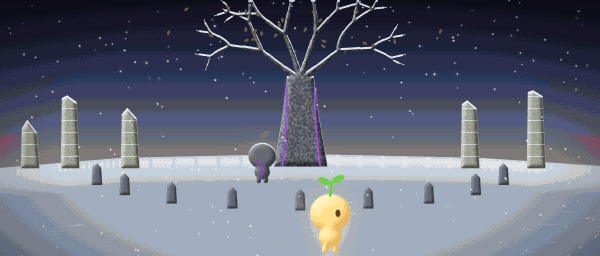
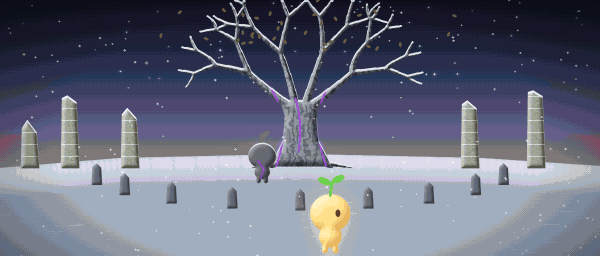
Pulir ilustraciones 2_familia_shamba, 3_leyenda, 17_kimya_lago y 22_ruinas_mauti y optimizar pintor

diff --git a/herramientas/cinematicas.py b/herramientas/cinematicas.py
@@ -32,13 +32,13 @@ def linea_horizonte(lz, base, amplitud, escala, semilla, octavas=4):
     """Una silueta de montañas o colinas: devuelve la altura (y) para cada x."""
     rng = np.random.default_rng(semilla)
     x = np.arange(lz.W) / lz.s
-    y = np.zeros_like(x)
-    amp, suma = 1.0, 0.0
+    y = 0.45 * np.sin(x * (0.37 / escala) * 2 * np.pi + rng.random() * 6.28)
+    amp, suma = 1.0, 0.45
     for o in range(octavas):
-        f = (2 ** o) / escala
+        f = (2.17 ** o) / escala * (0.92 + 0.16 * rng.random())
         y += amp * np.sin(x * f * 2 * np.pi + rng.random() * 6.28) * (0.6 + 0.4 * rng.random())
         suma += amp
-        amp *= 0.5
+        amp *= 0.52
     return base - amplitud * y / suma
 
 
@@ -491,19 +491,27 @@ def piedras(lz, region, tam=9.0, semilla=2, rampa_p=PIEDRA, luz=(-0.5, -0.7, 0.5
         return
     x0, x1, y0, y1 = xs.min() / lz.s, xs.max() / lz.s, ys.min() / lz.s, ys.max() / lz.s
     lz.pintar(region, mortero)
+    tex_p = lz.ruido(1.5, 2, semilla=semilla + 11)
+    grupos = [np.zeros((lz.H, lz.W)) for _ in range(4)]
     fila = 0
     y = y0
     while y < y1 + tam:
         x = x0 - (tam * 0.5 if fila % 2 else 0)
+        col = 0
         while x < x1 + tam:
             w_ = tam * (0.8 + rng.random() * 0.6)
             h_ = tam * (0.6 + rng.random() * 0.25)
             p = lz.elipse(x + w_ / 2, y + h_ / 2, w_ / 2 - 0.6, h_ / 2 - 0.6, (rng.random() - 0.5) * 20) * region
             if p.max() > 0.3:
-                lz.sombrear(p, rampa_p, min(w_, h_) * 0.35, luz, textura=lz.ruido(1.5, 2), fuerza_tex=0.3)
+                g_idx = (fila % 2) * 2 + (col % 2)
+                grupos[g_idx] = np.maximum(grupos[g_idx], p)
             x += w_
+            col += 1
         y += tam * 0.72
         fila += 1
+    for g in grupos:
+        if g.max() > 0.3:
+            lz.sombrear(g, rampa_p, tam * 0.25, luz, textura=tex_p, fuerza_tex=0.3)
 
 
 def lengua(lz, x, base, ancho, alto, curva, fase=0.0):
@@ -679,10 +687,11 @@ def leyenda():
     # la abuela con su chal y sus gafas, con el cetro en alto
     castor(lz, 266, 214, 2.05, 1, chal=True, gafas=True, brazo_alto=True, sem=11,
            luz=(-0.9, -0.3, 0.45), recorte=("#535a80", 0.6), recorte_dir=(1, -0.2))
-    # el balancín de la mecedora delante
+    # el balancín y el brazo de la mecedora delante
     balancin = lz.trazo(lz.curva((206, 212), (262, 226), (318, 210), n=30), 3.4)
     lz.sombrear(balancin, MADERA, 1.7, (-0.8, -0.5, 0.5))
-    brazo_m = lz.trazo([(222, 176), (300, 178)], 3.4)
+    brazo_m = lz.trazo([(222, 176), (294, 178)], 3.2)
+    lz.sombrear(brazo_m, MADERA, 1.6, (-0.8, -0.4, 0.5))
     cetro(lz, 300, 222, 116, e=1.7, luz=(-0.9, -0.3, 0.45))
     # la mano que agarra el cetro (delante del palo)
     mano = lz.elipse(299, 149, 4.4, 4.6)
@@ -706,13 +715,18 @@ def leyenda():
     borde_b = np.clip(1 - np.abs(d_b - 0.95 + (humo_dorado - 0.5) * 0.25) * 9, 0, 1)
     dentro_b = np.clip((1 - d_b) * 4 + (humo_dorado - 0.5) * 0.6, 0, 1)
     lz.pintar(dentro_b, rampa(["#3a2238", "#6a3446", "#9c4b4a", "#c96d4f"], np.clip(1 - d_b + humo_dorado * 0.3, 0, 1)), 0.75)
-    # dentro: el mundo gris, con el árbol, y la luz que llega
+    # dentro: el mundo gris, con el árbol viejo que empieza a reverdecer donde llega la luz
     for (hx_, hy_, hr_, col_) in [(cx_v - 20, cy_v + 40, 40, "#525458"), (cx_v + 26, cy_v + 44, 36, "#3d3f43")]:
         lz.pintar(lz.circulo(hx_, hy_, hr_) * dentro_b, col_, 0.9)
-    arb = lz.trazo([(cx_v - 26, cy_v + 8), (cx_v - 27, cy_v - 8)], 2)
-    arb = np.maximum(arb, lz.trazo([(cx_v - 27, cy_v - 4), (cx_v - 33, cy_v - 12)], 1.2))
-    arb = np.maximum(arb, lz.trazo([(cx_v - 27, cy_v - 6), (cx_v - 21, cy_v - 14)], 1.2))
-    lz.pintar(arb * dentro_b, "#2b2c30")
+    ax, ay = cx_v - 25, cy_v + 12
+    arb = lz.trazo(lz.curva((ax, ay), (ax - 1.5, ay - 9), (ax - 1, ay - 18), n=16), 2.8, 1.4)
+    for (p1, p2, g_) in [((ax - 4, ay + 1), (ax - 9, ay + 3), 1.4), ((ax + 3, ay + 1), (ax + 8, ay + 2), 1.4),
+                         ((ax - 1, ay - 13), (ax - 10, ay - 22), 1.4), ((ax - 1, ay - 15), (ax + 8, ay - 23), 1.3),
+                         ((ax - 4, ay - 17), (ax - 3, ay - 26), 1.1)]:
+        arb = np.maximum(arb, lz.trazo(lz.curva((ax - 1, p1[1]), p1, p2, n=12), g_, g_ * 0.45))
+    lz.sombrear(arb * dentro_b, ["#1b1c1f", "#2b2c30", "#525458", "#85878a"], 1.5, (0.8, -0.4, 0.5))
+    brotes_v = (lz.elipse(ax + 6, ay - 22, 4.5, 3.0) + lz.elipse(ax - 2, ay - 25, 4.0, 2.6)) * dentro_b
+    lz.sombrear( np.clip(brotes_v, 0, 1), ["#24401f", "#3e9a35", "#6fcf4f", "#b8ef8e"], 2.0, (0.7, -0.5, 0.5))
     lz.sumar_luz(borde_b, "#f9b947", 0.8)
     lz.sumar_luz(lz.desenfocar(borde_b, 3), "#ef8a26", 0.6)
     rayos_l = lz.rayos(lz.circulo(cx_v, cy_v - 4, 9), (cx_v, cy_v - 4), largo=0.965, pasos=34)
@@ -1056,9 +1070,13 @@ def casa_troncos(lz, x, y, ancho, alto, luz=(-0.7, -0.6, 0.5), ventanas_luz=0.0,
         lz.pintar(lz.poligono([(vx_ - 8, y - 9), (vx_ + 8, y - 9), (vx_ + 7, y - 6), (vx_ - 7, y - 6)]), "#6d4534")
         flores(lz, 6, (vx_ - 7, y - 9, vx_ + 7, y - 8.5), [["#8f2532", "#d5525e", "#e98378"], ["#b2721a", "#df9022", "#f1c27a"]], semilla=int(vx_), tam=0.7)
     if rueda:
-        # la rueda del molino, a un lado, con su acequia
+        # la rueda del molino, a un lado, con su acequia de piedra y agua con espuma
         rx_, ry_ = x0 - 10, y - 12
         r_ = alto * 0.3
+        acequia = lz.trazo(lz.curva((rx_ - 42, y + 6), (rx_ - 6, y + 3), (rx_ + 22, y + 1), n=28), 7.5, 5.0)
+        borde_a = np.clip(lz.desenfocar(acequia, 1.6) - acequia, 0, 1)
+        lz.sombrear(borde_a, PIEDRA[:5], 1.5, luz)
+        lz.pintar(acequia, rampa(["#1d3a44", "#335777", "#6b9eab", "#c4ddd0"], np.clip(0.35 + lz.ruido(2, 2, semilla=semilla + 9) * 0.55, 0, 1)))
         aro = np.clip(lz.circulo(rx_, ry_, r_) - lz.circulo(rx_, ry_, r_ - 2.5), 0, 1)
         for k in range(10):
             a_ = k * np.pi / 5
@@ -1066,6 +1084,8 @@ def casa_troncos(lz, x, y, ancho, alto, luz=(-0.7, -0.6, 0.5), ventanas_luz=0.0,
             aro = np.maximum(aro, lz.trazo([(rx_ + np.cos(a_) * (r_ - 1), ry_ + np.sin(a_) * (r_ - 1)), (rx_ + np.cos(a_) * (r_ + 3), ry_ + np.sin(a_) * (r_ + 3))], 2.4))
         lz.sombrear(aro, MADERA, 1.2, luz)
         lz.sombrear(lz.circulo(rx_, ry_, 3), MADERA, 2, luz)
+        espuma = lz.elipse(rx_, y + 2, 12, 2.6) * (lz.ruido(1.2, 2, semilla=semilla + 11) > 0.38)
+        lz.pintar(lz.desenfocar(espuma, 0.6), "#e8f0dc", 0.85)
     return pared
 
 
@@ -1073,29 +1093,31 @@ def zanahorias(lz, x0, x1, y, e=1.0, semilla=0, n=None):
     """Una fila de zanahorias: la cabeza naranja asomando y un penacho de hojas."""
     rng = np.random.default_rng(semilla)
     n = n or int((x1 - x0) / (7 * e))
+    cabs_m = np.zeros((lz.H, lz.W))
     hojas_m = np.zeros((lz.H, lz.W))
     for k in range(n):
         x = x0 + (x1 - x0) * (k + 0.5) / n + (rng.random() - 0.5) * 2 * e
-        cab = lz.elipse(x, y - 0.5 * e, 2.4 * e, 1.6 * e)
-        lz.sombrear(cab, ["#6e200c", "#a8380f", "#d45a17", "#ef8a26", "#f9b947"], 1.4 * e, (-0.6, -0.7, 0.5))
+        cabs_m = np.maximum(cabs_m, lz.elipse(x, y - 0.5 * e, 2.4 * e, 1.6 * e))
         for j in range(5):
             a_ = np.radians(-90 + (j - 2) * 22 + (rng.random() - 0.5) * 10)
             l_ = (6 + rng.random() * 4) * e
             pts = lz.curva((x, y - 1 * e), (x + np.cos(a_) * l_ * 0.5, y - 1 * e + np.sin(a_) * l_ * 0.6), (x + np.cos(a_) * l_, y - 1 * e + np.sin(a_) * l_ * 0.9 + 1 * e), n=10)
             hojas_m = np.maximum(hojas_m, lz.trazo(pts, 1.6 * e, 0.6 * e))
+    lz.sombrear(cabs_m, ["#6e200c", "#a8380f", "#d45a17", "#ef8a26", "#f9b947"], 1.4 * e, (-0.6, -0.7, 0.5))
     lz.sombrear(hojas_m, HIERBA[2:], 0.9 * e, (-0.6, -0.7, 0.5), textura=lz.ruido(0.7, 2), fuerza_tex=0.4)
 
 
 def coles(lz, x0, x1, y, e=1.0, semilla=0):
     rng = np.random.default_rng(semilla)
     n = int((x1 - x0) / (12 * e))
+    hojas_ = []
     for k in range(n):
         x = x0 + (x1 - x0) * (k + 0.5) / n
-        hojas_ = []
         for j in range(9):
             a_ = j / 9 * 2 * np.pi
             hojas_.append((x + np.cos(a_) * 3.5 * e, y - 3 * e + np.sin(a_) * 2 * e, 3.4 * e))
         hojas_.append((x, y - 3.6 * e, 3.2 * e))
+    if hojas_:
         bolas(lz, hojas_, ["#24401f", "#355029", "#5d793e", "#8aa152", "#b4c070", "#dcd994"], luz=(-0.6, -0.7, 0.5),
               ruido_borde=0.2, fuerza_tex=0.2, plano=1.3)
 

diff --git a/herramientas/cinematicas_sendero.py b/herramientas/cinematicas_sendero.py
@@ -843,6 +843,8 @@ def kimya_lago():
     origen = np.clip(2 * eje - 1 - np.arange(filas), 0, filas - 1)
     reflejo = lz.img[origen]
     lz.pintar(agua, reflejo * 0.82)
+    # más abajo de 2 * HZ se agota el cielo reflejado: fundir a azul noche hondo para no repetir la fila 0 con sus estrellas
+    lz.pintar(agua * np.clip((lz.y - (2 * HZ - 20)) / 24, 0, 1), "#0b1122")
     lz.pintar(agua * np.clip((lz.y - HZ) / 160, 0, 1), "#0a1424", 0.25)
     vetas = (estirar_h(lz, lz.ruido(1.5, 2, semilla=204), 40) > 0.72) * agua
     lz.pintar(vetas, "#c8e0e8", 0.12)
@@ -1335,29 +1337,37 @@ def _corro(lz, encendidas):
 
 
 def _arbol_gris(lz, x, y, alto, rng):
-    tronco = lz.poligono([(x - 26, y), (x - 17, y - alto * 0.35), (x - 13, y - alto * 0.6), (x + 13, y - alto * 0.6), (x + 18, y - alto * 0.35), (x + 27, y)])
+    e = alto / 150.0
+    tronco = lz.poligono([(x - 30 * e, y), (x - 17 * e, y - 26 * e), (x - 15 * e, y - 50 * e), (x - 20 * e, y - 66 * e),
+                          (x + 20 * e, y - 66 * e), (x + 16 * e, y - 50 * e), (x + 18 * e, y - 26 * e), (x + 32 * e, y)])
+    for (dx, lx, g) in ((-1, 50, 7), (1, 54, 7), (-1, 30, 4.5), (1, 32, 4.5)):
+        tronco = np.maximum(tronco, lz.trazo(lz.curva((x + dx * 12 * e, y - 6 * e), (x + dx * lx * 0.5 * e, y - 3 * e), (x + dx * lx * e, y + 1), n=24), g * e, 1.2 * e))
     ramas = np.zeros((lz.H, lz.W))
     def rama(a, ang, largo, g, n):
         nonlocal ramas
         b = (a[0] + np.cos(ang) * largo, a[1] + np.sin(ang) * largo)
         m = (a[0] + np.cos(ang) * largo * 0.5 + rng.normal(0, 3), a[1] + np.sin(ang) * largo * 0.5)
-        ramas = np.maximum(ramas, lz.trazo(lz.curva(a, m, b, n=20), g, g * 0.6))
+        ramas = np.maximum(ramas, lz.trazo(lz.curva(a, m, b, n=20), g, g * 0.58))
         if n < 3:
-            for d in (-0.5, 0.45):
-                rama(b, ang + d + rng.normal(0, 0.15), largo * 0.68, g * 0.6, n + 1)
-    for ang in (-2.5, -1.9, -1.25, -0.65):
-        rama((x, y - alto * 0.58), ang, alto * 0.32, 5.0, 0)
+            for d in (-0.48, 0.44):
+                rama(b, ang + d + rng.normal(0, 0.12), largo * 0.68, g * 0.62, n + 1)
+    for (ox_r, ang, l0, g0) in ((x - 13 * e, -2.45, 50 * e, 7.5 * e), (x - 5 * e, -1.85, 54 * e, 7.0 * e),
+                                (x + 5 * e, -1.25, 54 * e, 7.0 * e), (x + 13 * e, -0.68, 50 * e, 7.5 * e)):
+        rama((ox_r, y - 62 * e), ang, l0, g0, 0)
     madera = np.clip(tronco + ramas, 0, 1)
-    lz.sombrear(madera, ["#1e1e22", "#36363c", "#55555c", "#77777e", "#9a9aa0"], 7, (-0.6, -0.7, 0.5),
-                textura=lz.ruido(1.5, 3, semilla=421), fuerza_tex=0.35)
-    for pts in ([(x - 18, y), (x - 12, y - alto * 0.3), (x - 14, y - alto * 0.55)], [(x + 20, y), (x + 13, y - alto * 0.35), (x + 15, y - alto * 0.58)]):
-        v = lz.trazo(lz.curva(*pts, n=30), 1.0) * madera
+    estrias = (np.abs(np.sin((lz.x - x) / (2.2 * e) + lz.ruido(6, 2, semilla=401) * 3)) > 0.84) * 1.0
+    lz.sombrear(madera, ["#18181e", "#2c2c34", "#464650", "#686874", "#8e8e9a", "#b4b4c0"], 8 * e, (-0.6, -0.7, 0.5),
+                textura=1 - estrias * 0.45 + (lz.ruido(1.5, 3, semilla=421) - 0.5) * 0.3, fuerza_tex=0.42)
+    for pts in ([(x - 24 * e, y), (x - 12 * e, y - 34 * e), (x - 16 * e, y - 64 * e), (x - 36 * e, y - 86 * e)],
+                [(x + 26 * e, y), (x + 13 * e, y - 36 * e), (x + 15 * e, y - 64 * e), (x + 34 * e, y - 88 * e)],
+                [(x - 2 * e, y - 14 * e), (x + 3 * e, y - 44 * e), (x - 5 * e, y - 68 * e)]):
+        v = lz.trazo(lz.curva(*pts, n=36), 1.1) * madera
         lz.pintar(v, "#8a4ad0")
-        lz.sumar_luz(lz.desenfocar(v, 2), "#b080ff", 0.4)
+        lz.sumar_luz(lz.desenfocar(v, 2.2), "#b080ff", 0.45)
     nieve = madera * (1 - np.roll(madera, int(2 * lz.s), axis=0))
     lz.pintar(nieve, "#dfe6f0")
-    for k in range(30):
-        hx, hy = x + rng.normal(0, 70), y - alto * 0.8 - abs(rng.normal(0, 26))
+    for k in range(36):
+        hx, hy = x + rng.normal(0, 74), y - alto * 0.78 - abs(rng.normal(0, 26))
         lz.pintar(lz.elipse(hx, hy, 2.2, 1.1, rng.uniform(0, 180)), "#6e6044")
 
 

diff --git a/documentacion/decisiones.md b/documentacion/decisiones.md
@@ -208,3 +208,12 @@ se pasan.
 | Mauti en Sigilia | Va con Maisha pero se queda en la ciudad ayudando a los escribas en blanco; aparece en momentos clave (Iam: «vale sigue») |
 | Paso de la Escarcha, parte 2 | Taa (armiño farolero) está en blanco a media subida; su ficha del Índice se la llevó el viento al este. Al devolvérsela recupera el color y enseña el SIGILO DE FUEGO: tecla nueva U (RB en el mando; RB deja de ser «cambiar de semilla», que no se usaba), 20 de Aliento. Los faroles rúnicos solo los enciende el sigilo y, encendidos, abrigan del viento y ablandan la nieve |
 | Paso de la Escarcha, parte 3 | Páginas sueltas (enemigo: 2 golpes, el fuego las quema de un trazo). La Puerta Sellada se derrite con 3 sigilos; arriba la peña se cierra para que no se rodee. Misión «El Paso de la Escarcha». Música «La nieve que escribe» con el tema de Sigilia (vals de caja de música en si menor) |
+
+### Revisión de ilustraciones · Cinemáticas y ecos (16-10)
+| Qué | Decisión |
+| --- | --- |
+| Horizontes periódicos (`linea_horizonte`) | `linea_horizonte()` en `herramientas/cinematicas.py` usaba frecuencias armónicas exactas (`(2 ** o) / escala`), lo que en escalas cortas como `17_kimya_lago` producía una repetición exacta de dientes de sierra cada 34 px. Reemplazado por frecuencias incommensurables (`2.17 ** o` con variación aleatoria y onda base de baja frecuencia). |
+| Reflejo de `17_kimya_lago` (`cinematicas_sendero.py`) | Por debajo de `y = 2 * HZ` (`196 px`), el espejo del agua saturaba `origen = 0` y repetía verticalmente la fila 0 del cielo, estirando dos estrellas del borde superior como dos rayas verticales en el agua. Ahora el tramo inferior del reflejo se funde suavemente hacia azul noche profundo (`#0b1122`), como en `21_eco_lago`. |
+| El Primer Árbol en las Ruinas (`22_ruinas_mauti`) | `_arbol_gris()` tenía un tronco trapezoidal recto sin raíces ni corteza, en contraste con `_arbol_dorado()` en `23_arbol_libre`. Se igualó su anatomía con raíces extendidas en la nieve, corteza estriada con relieve, ramas nudosas y tres grandes vetas violetas de Giza. |
+| La granja y la leyenda (`2_familia_shamba`, `3_leyenda`) | En `casa_troncos()` se pintó la acequia de piedra con agua y espuma al pie de la rueda del molino; en `leyenda()` se sombreó el brazo de la mecedora (`brazo_m`, que se calculaba pero no se pintaba) y se reemplazó el árbol de 3 trazos rectos dentro de la visión del cetro por un árbol viejo con raíces y primeros brotes verdes. |
+
